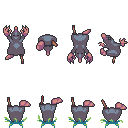
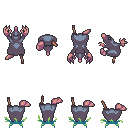
HUD finished and some graphical updates

Changed region(s): [[0.7812, 0.7812, 1.0, 0.875], [0.375, 0.9062, 0.4062, 0.9375]]

diff --git a/Super Pete The Pirate/Characters/Player.cs b/Super Pete The Pirate/Characters/Player.cs
@@ -24,6 +24,18 @@ namespace Super_Pete_The_Pirate
 
         private int _coins;
 
+        //--------------------------------------------------
+        // Lives
+
+        private int _lives;
+        public int Lives { get { return _lives; } }
+
+        //--------------------------------------------------
+        // Ammo
+
+        private int _ammo;
+        public int Ammo { get { return _ammo; } }
+
         //----------------------//------------------------//
 
         public Player(Texture2D texture) : base(texture)
@@ -67,7 +79,8 @@ namespace Super_Pete_The_Pirate
             {
                 new Rectangle(32, 32, 32, 32),
                 new Rectangle(64, 32, 64, 32),
-                new Rectangle(128, 32, 64, 32)
+                new Rectangle(128, 32, 64, 32),
+                new Rectangle(192, 32, 64, 32)
             }, new int[] { 0, 0, 0, 0 }, new int[] { 0, 0, 0, 0 });
 
             CharacterSprite.AddAttackCollider("attack_sword", new List<List<Rectangle>>()
@@ -119,13 +132,13 @@ namespace Super_Pete_The_Pirate
 
             CharacterSprite.CreateFrameList("attack_shot", 50);
             CharacterSprite.AddCollider("attack_shot", new Rectangle(9, 2, 17, 30));
-            CharacterSprite.AddFramesToAttack("attack_shot", 3);
+            CharacterSprite.AddFramesToAttack("attack_shot", 2);
             CharacterSprite.AddFrames("attack_shot", new List<Rectangle>()
             {
                 new Rectangle(0, 128, 32, 32),
-                new Rectangle(32, 128, 32, 32),
-                new Rectangle(64, 128, 64, 32),
-                new Rectangle(128, 128, 64, 32)
+                new Rectangle(32, 128, 64, 32),
+                new Rectangle(96, 128, 64, 32),
+                new Rectangle(160, 128, 64, 32)
             }, new int[] { 0, 0, 0, 0 }, new int[] { 0, 0, 0, 0 });
 
             CharacterSprite.CreateFrameList("attack_shot_jumping", 50);
@@ -134,9 +147,9 @@ namespace Super_Pete_The_Pirate
             CharacterSprite.AddFrames("attack_shot_jumping", new List<Rectangle>()
             {
                 new Rectangle(0, 160, 32, 32),
-                new Rectangle(32, 160, 32, 32),
-                new Rectangle(64, 160, 64, 32),
-                new Rectangle(128, 160, 64, 32)
+                new Rectangle(32, 160, 64, 32),
+                new Rectangle(96, 160, 64, 32),
+                new Rectangle(160, 160, 64, 32)
             }, new int[] { 0, 0, 0, 0 }, new int[] { 0, 0, 0, 0 });
 
             Position = new Vector2(32, 160);
@@ -153,8 +166,9 @@ namespace Super_Pete_The_Pirate
             AttackCooldown = 300f;
 
             // Battle system init
-
-            _hp = 100;
+            _hp = 5;
+            _lives = 3;
+            _ammo = 5;
 
             // Coins init
             _coins = 0;

diff --git a/Super Pete The Pirate/Objects/GameHud.cs b/Super Pete The Pirate/Objects/GameHud.cs
@@ -1,6 +1,8 @@
 using Microsoft.Xna.Framework;
 using Microsoft.Xna.Framework.Graphics;
 using MonoGame.Extended.Sprites;
+using MonoGame.Extended.BitmapFonts;
+using Super_Pete_The_Pirate.Scenes;
 using System;
 using System.Collections.Generic;
 using System.Linq;
@@ -25,6 +27,11 @@ namespace Super_Pete_The_Pirate.Objects
         private Rectangle _lifeSprite;
         private Rectangle _gunSprite;
 
+        //--------------------------------------------------
+        // Ammo text
+
+        private Color _ammoTextColor;
+
         //----------------------//------------------------//
 
         public GameHud(Texture2D texture) : base(texture)
@@ -36,8 +43,10 @@ namespace Super_Pete_The_Pirate.Objects
             _gunSprite = new Rectangle(0, 24, 20, 9);
 
             _hearthSpritePosition = new Vector2(0, 0);
-            _lifeSpritePosition = new Vector2(0, 10);
-            _gunSpritePosition = new Vector2(0, 24);
+            _lifeSpritePosition = new Vector2(0, 11);
+            _gunSpritePosition = new Vector2(0, 26);
+
+            _ammoTextColor = new Color(23, 34, 68);
         }
 
         public void SetPosition(Vector2 position)
@@ -47,9 +56,27 @@ namespace Super_Pete_The_Pirate.Objects
 
         public void Draw(SpriteBatch spriteBatch)
         {
-            spriteBatch.Draw(this.TextureRegion.Texture, _position + _hearthSpritePosition, _hearthSprite, Color.White);
-            spriteBatch.Draw(this.TextureRegion.Texture, _position + _lifeSpritePosition, _lifeSprite, Color.White);
+            var sceneMap = (SceneMap)SceneManager.Instance.GetCurrentScene();
+            var player = sceneMap.Player;
+
+            // Draw the hearths
+            for (var i = 0; i < player.HP; i++)
+            {
+                spriteBatch.Draw(this.TextureRegion.Texture,
+                    _position + _hearthSpritePosition + (Vector2.UnitX * i * (_hearthSprite.Width + 2)), _hearthSprite, Color.White);
+            }
+
+            // Draw the lives
+            for (var i = 0; i < player.Lives; i++)
+            {
+                spriteBatch.Draw(this.TextureRegion.Texture,
+                    _position + _lifeSpritePosition + (Vector2.UnitX * i * (_lifeSprite.Width + 2)), _lifeSprite, Color.White);
+            }
+
+            // Draw the ammo
             spriteBatch.Draw(this.TextureRegion.Texture, _position + _gunSpritePosition, _gunSprite, Color.White);
+            spriteBatch.DrawString(SceneManager.Instance.GameFont, player.Ammo.ToString(),
+                _position + _gunSpritePosition + (Vector2.UnitX * (_gunSprite.Width + 2)), _ammoTextColor);
         }
     }
 }

diff --git a/Super Pete The Pirate/Managers/SceneManager.cs b/Super Pete The Pirate/Managers/SceneManager.cs
@@ -2,6 +2,7 @@
 using Microsoft.Xna.Framework.Content;
 using Microsoft.Xna.Framework.Graphics;
 using Microsoft.Xna.Framework.Input;
+using MonoGame.Extended.BitmapFonts;
 using MonoGame.Extended.Sprites;
 using MonoGame.Extended.ViewportAdapters;
 using Super_Pete_The_Pirate.Scenes;
@@ -52,6 +53,12 @@ namespace Super_Pete_The_Pirate
 
         public bool DebugMode = true;
 
+        //--------------------------------------------------
+        // Game font
+
+        private BitmapFont _gameFont;
+        public BitmapFont GameFont { get { return _gameFont; } }
+
         //----------------------//------------------------//
 
         public static SceneManager Instance
@@ -88,9 +95,10 @@ namespace Super_Pete_The_Pirate
             var transitionTexture = new Texture2D(GraphicsDevice, 1, 1, false, SurfaceFormat.Color);
             transitionTexture.SetData<Color>(new Color[] { Color.Black });
             _transitionImage = new Sprite(transitionTexture);
-            _transitionImage.Scale = new Vector2(WindowSize.X, WindowSize.Y);
+            _transitionImage.Scale = new Vector2(VirtualSize.X, VirtualSize.Y);
             _transitionImage.Alpha = 0.0f;
             _transitionImage.IsVisible = false;
+            _gameFont = Content.Load<BitmapFont>("fonts/Alagard");
             ParticleManager = new ParticleManager<ParticleState>(1024 * 20, ParticleState.UpdateParticle);
             _currentScene.LoadContent();
         }

diff --git a/Super Pete The Pirate/Scenes/SceneMap.cs b/Super Pete The Pirate/Scenes/SceneMap.cs
@@ -25,6 +25,8 @@ namespace Super_Pete_The_Pirate.Scenes
 
         private Player _player;
 
+        public Player Player { get { return _player; } }
+
         //--------------------------------------------------
         // Enemies
 
@@ -101,7 +103,7 @@ namespace Super_Pete_The_Pirate.Scenes
         private void CreateHud()
         {
             _gameHud = new GameHud(ImageManager.loadSystem("hudSpritesheet"));
-            _gameHud.SetPosition(new Vector2(10, 10));
+            _gameHud.SetPosition(new Vector2(5, 5));
         }
 
         private void LoadMap(int mapId)
@@ -365,6 +367,11 @@ namespace Super_Pete_The_Pirate.Scenes
 
             // Draw the particles
             SceneManager.Instance.ParticleManager.Draw(spriteBatch);
+
+            spriteBatch.End();
+
+            spriteBatch.Begin(transformMatrix: SceneManager.Instance.ViewportAdapter.GetScaleMatrix(),
+                samplerState: SamplerState.PointClamp);
 
             // Draw the Hud
             _gameHud.Draw(spriteBatch);

diff --git a/Super Pete The Pirate/Characters/CharacterBase.cs b/Super Pete The Pirate/Characters/CharacterBase.cs
@@ -26,12 +26,10 @@ namespace Super_Pete_The_Pirate
         protected bool _requestErase;
         public bool RequestErase { get { return _requestErase; } }
         public float AttackCooldown { get; set; }
-
-        protected int _hp;
-
         public bool IsImunity { get { return CharacterSprite.ImmunityAnimationActive; } }
-
         protected bool _shot;
+        protected int _hp;
+        public int HP { get { return _hp; } }
 
         //--------------------------------------------------
         // Damage stuff
